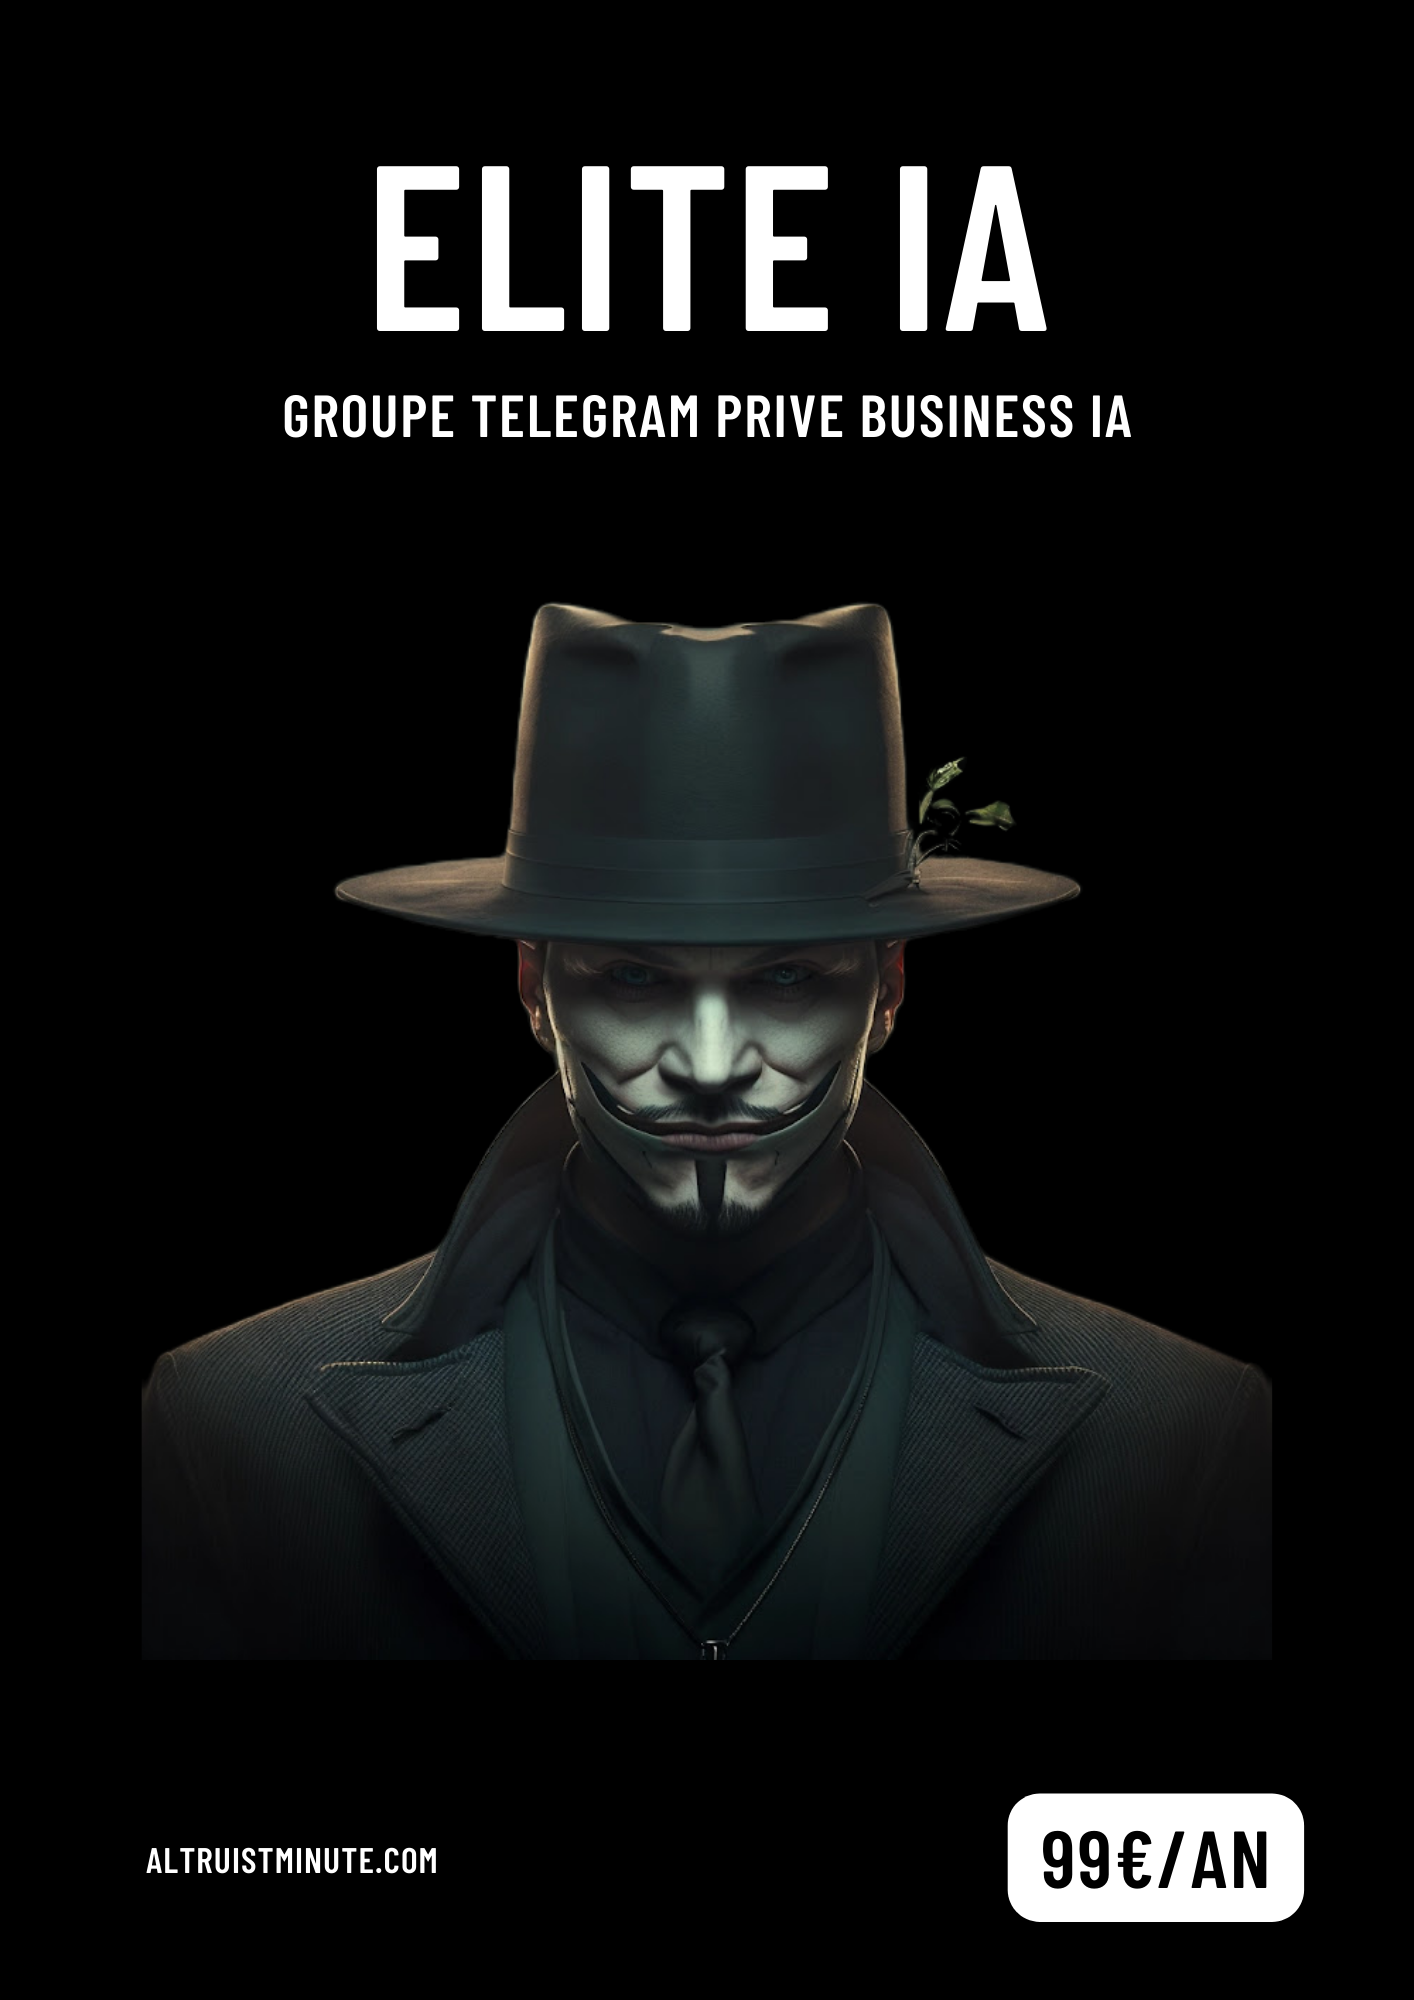
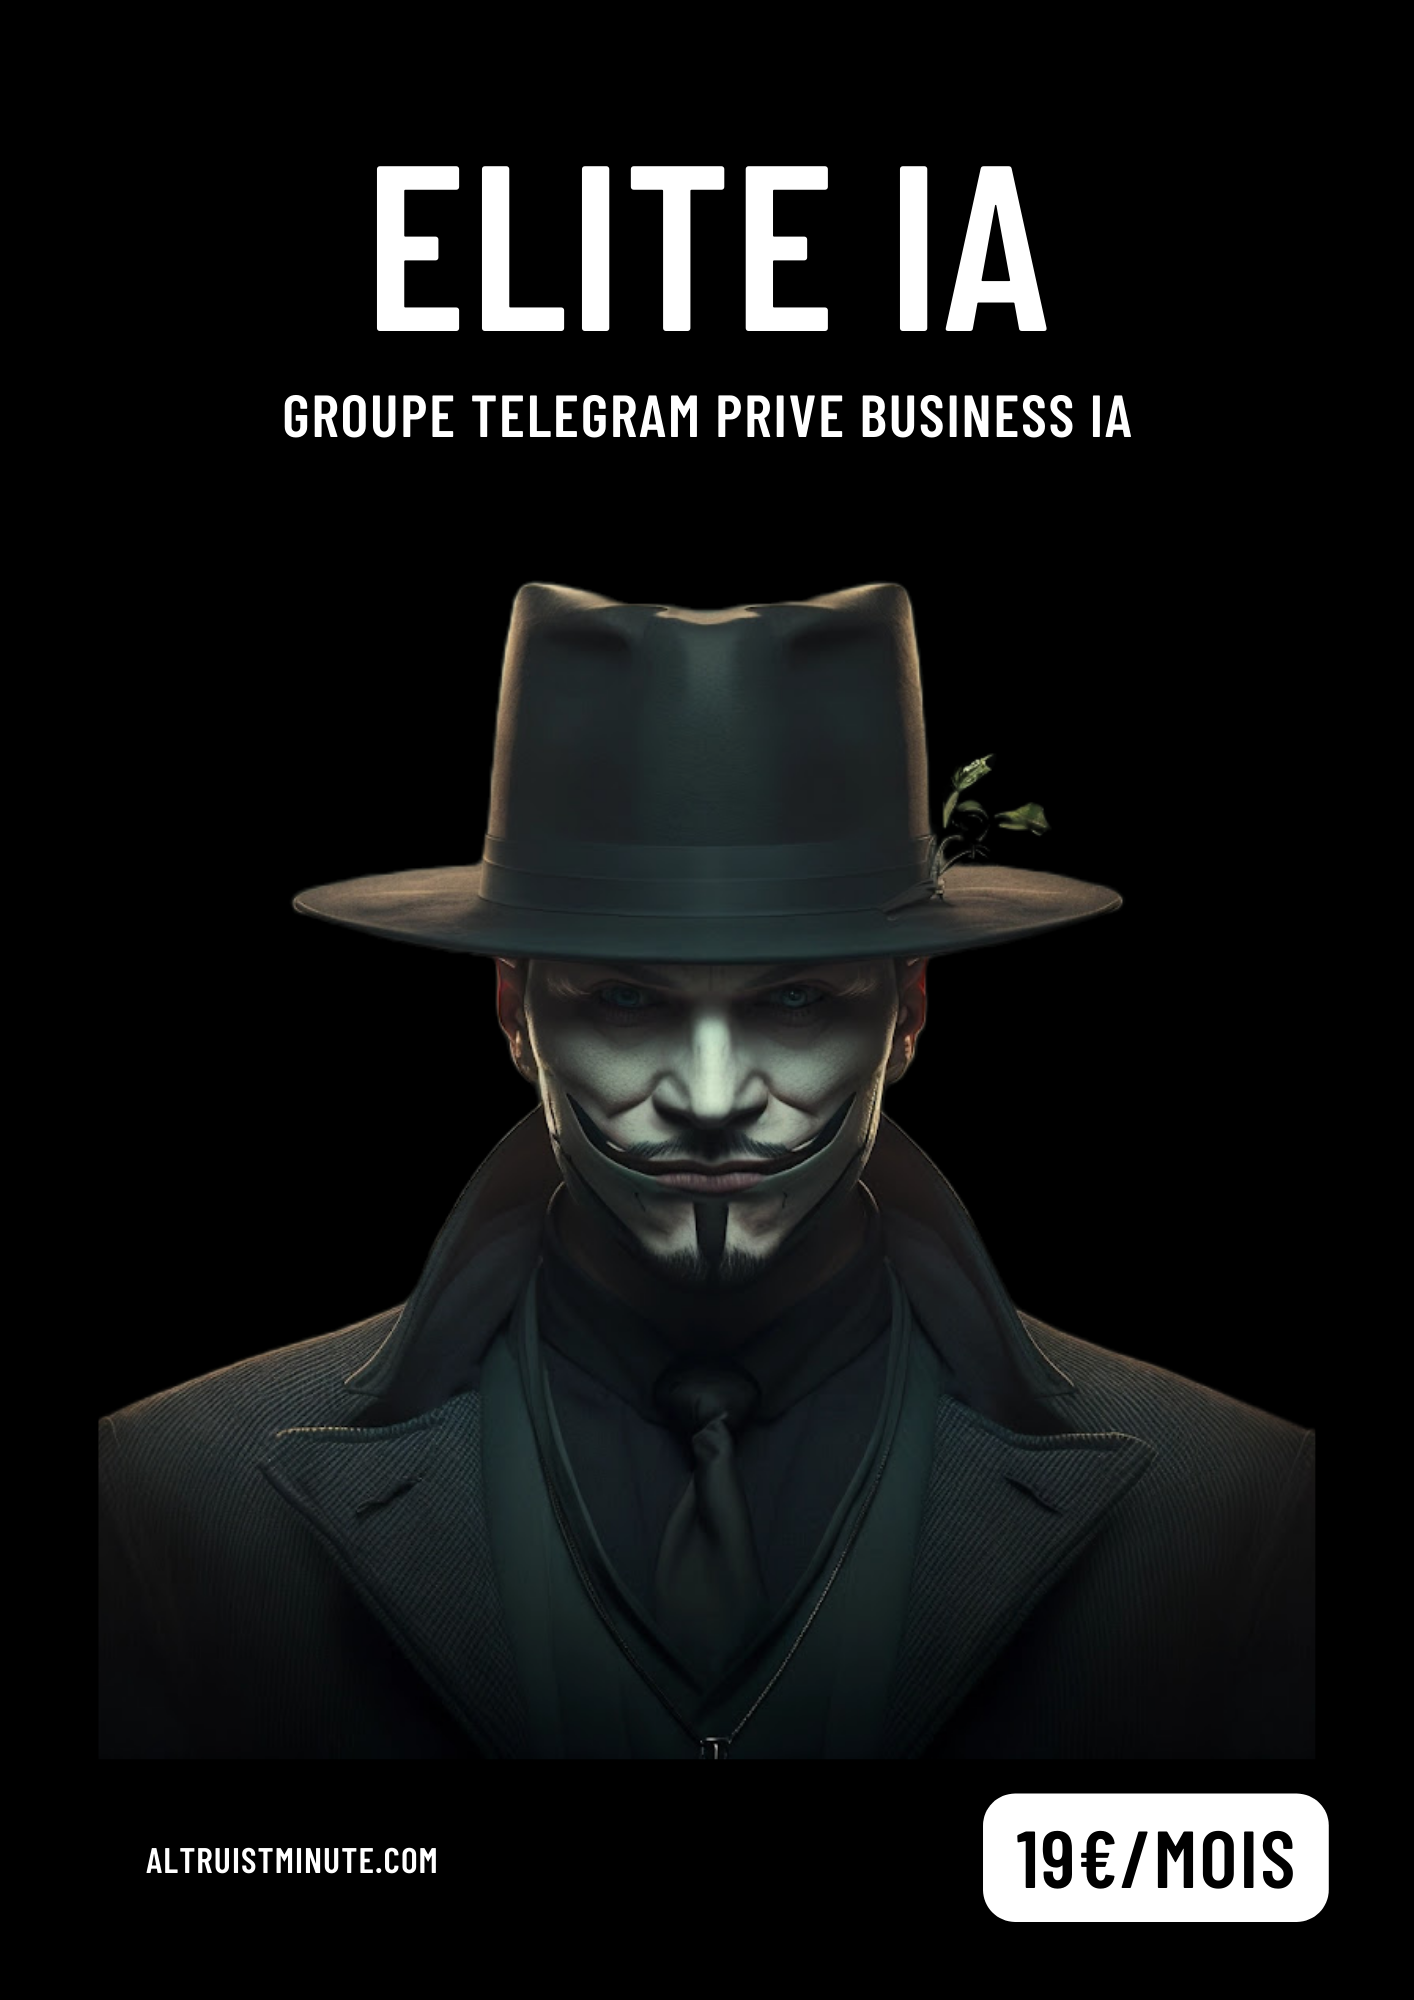
GGG

diff --git a/EliteIA.html b/EliteIA.html
@@ -452,7 +452,7 @@ function submitForm() {
 <div id="header"><h1>Elite IA</h1></div>
 <div id="page">
 <div id="frontpage">
-<a href="https://buy.stripe.com/5kAg0ndr26Bg7tu8xr"><img src="images/eliteia.png" width="350" height="495" class="pagePreview2" alt="Elite IA Preview"></a><br />
+<a href="https://buy.stripe.com/7sIg0n5YAcZE29aaFD"><img src="images/eliteia.png" width="350" height="495" class="pagePreview2" alt="Elite IA Preview"></a><br />
 <small>Elite IA</small>
 <br /><br />
 <div class="sharethis-inline-share-buttons"></div>
@@ -485,7 +485,7 @@ function submitForm() {
 
     <p><strong>Pourquoi attendre lorsque le succès vous attend? Rejoignez-nous dès maintenant!</strong></p>
 
-    <p>Le coût de 99 euros par an pour votre adhésion à "Elite IA" est minime comparé aux avantages incroyables qui vous attendent. L'investissement dans votre connaissance et votre réseau sera rapidement compensé par les opportunités lucratives que vous découvrirez.</p>
+    <p>Le coût de 19 euros par mois pour votre adhésion à "Elite IA" est minime comparé aux avantages incroyables qui vous attendent. L'investissement dans votre connaissance et votre réseau sera rapidement compensé par les opportunités lucratives que vous découvrirez.</p>
 
     <p><strong>Cliquez sur "Devenir Membre" maintenant et ouvrez la porte vers une réussite illimitée dans le monde passionnant de l'IA et du business en ligne.</strong></p>
 
@@ -576,7 +576,7 @@ function submitForm() {
   	</form>
 	</div>
 	<div id="footerBackground"></div>
-	<div id="footer">EliteIA <button class="download" onclick="location.href='https://buy.stripe.com/5kAg0ndr26Bg7tu8xr'">Devenir Membre</button></div>
+	<div id="footer">EliteIA <button class="download" onclick="location.href='https://buy.stripe.com/7sIg0n5YAcZE29aaFD'">Devenir Membre</button></div>
 <script>
 com.goalkicker.headerFooterGlassEffect.load();
 
